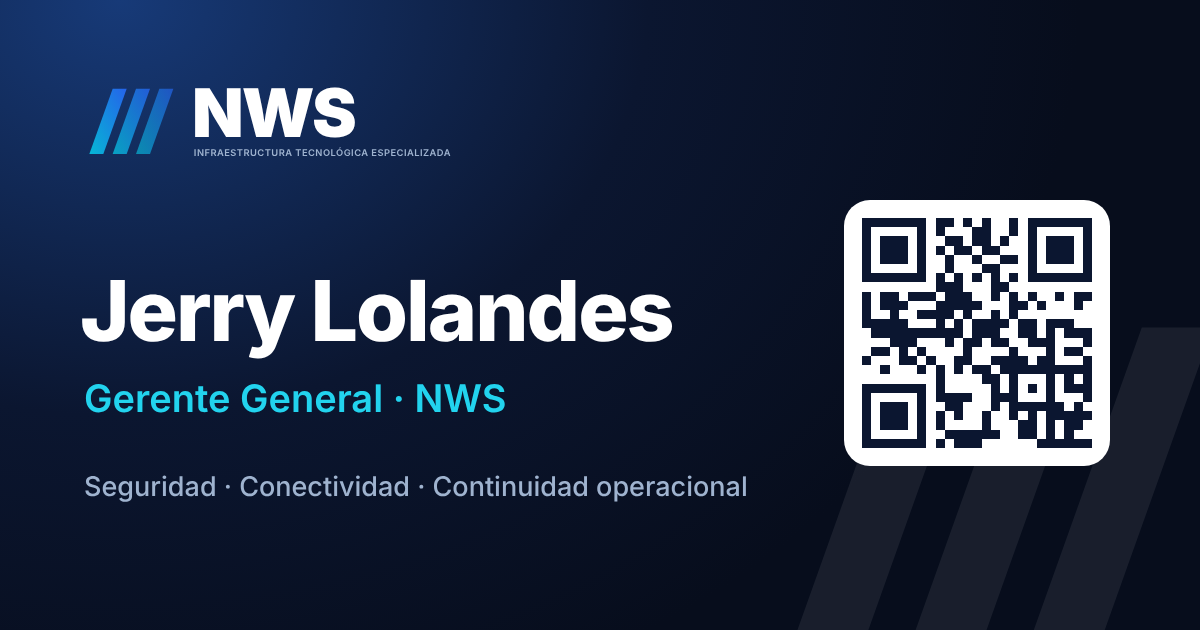
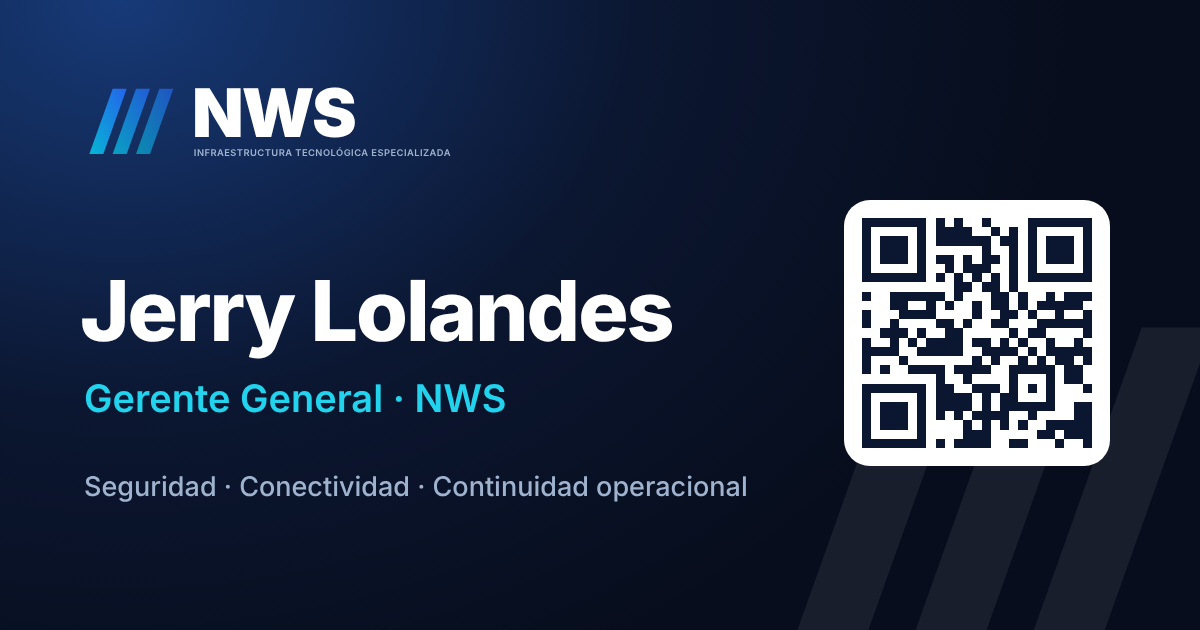
Tarjeta: enlace y QR a nws.cl/tarjeta
Claude-Session: https://claude.ai/code/session_0111TEJHksyg6RN8UCqvx2WY

Changed region(s): [[0.7092, 0.3317, 0.925, 0.7238]]

diff --git a/jerry/index.html b/jerry/index.html
@@ -9,9 +9,9 @@
 <meta property="og:type" content="profile">
 <meta property="og:title" content="Jerry Lolandes · Gerente General NWS">
 <meta property="og:description" content="Seguridad, conectividad y continuidad operacional para la industria. Toca para guardar mi contacto.">
-<meta property="og:image" content="https://nws.cl/contacto/vista.png">
-<meta property="og:url" content="https://nws.cl/contacto">
-<link rel="canonical" href="https://nws.cl/contacto">
+<meta property="og:image" content="https://nws.cl/tarjeta/vista.png">
+<meta property="og:url" content="https://nws.cl/tarjeta">
+<link rel="canonical" href="https://nws.cl/tarjeta">
 <link rel="icon" href="logo-oscuro.svg">
 <link rel="preconnect" href="https://fonts.googleapis.com">
 <link rel="preconnect" href="https://fonts.gstatic.com" crossorigin>
@@ -131,7 +131,7 @@ footer a{color:var(--sub);text-decoration:none}
 </div>
 <div class="toast" id="toast">Enlace copiado</div>
 <script>
-const url = 'https://nws.cl/contacto';
+const url = 'https://nws.cl/tarjeta';
 async function compartir() {
   const datos = { title: 'Jerry Lolandes · NWS', text: 'Jerry Lolandes, Gerente General de NWS: seguridad, conectividad y continuidad operacional.', url };
   try {

diff --git a/jerry/firma.html b/jerry/firma.html
@@ -34,7 +34,7 @@ ol{margin:0;padding-left:20px;color:#334155;font-size:14px;line-height:1.6}
       <div style="padding-top:6px;color:#334155">Cel. <a href="tel:+56993275874" style="color:#334155;text-decoration:none">+56 9 9327 5874</a> &nbsp;|&nbsp; <a href="mailto:jlolandes@nws.cl" style="color:#334155;text-decoration:none">jlolandes@nws.cl</a></div>
       <div style="color:#334155"><a href="https://www.nws.cl" style="color:#2563eb;text-decoration:none;font-weight:bold">www.nws.cl</a> &nbsp;|&nbsp; Huechuraba, Santiago</div>
       <div style="padding-top:6px;font-size:11px;color:#64748b">Seguridad, conectividad y continuidad operacional</div>
-      <div style="padding-top:4px;font-size:11px"><a href="https://nws.cl/contacto" style="color:#0891b2;text-decoration:none;font-weight:bold">Ver mi tarjeta digital →</a></div>
+      <div style="padding-top:4px;font-size:11px"><a href="https://nws.cl/tarjeta" style="color:#0891b2;text-decoration:none;font-weight:bold">Ver mi tarjeta digital →</a></div>
     </td>
   </tr>
 </table></div>
